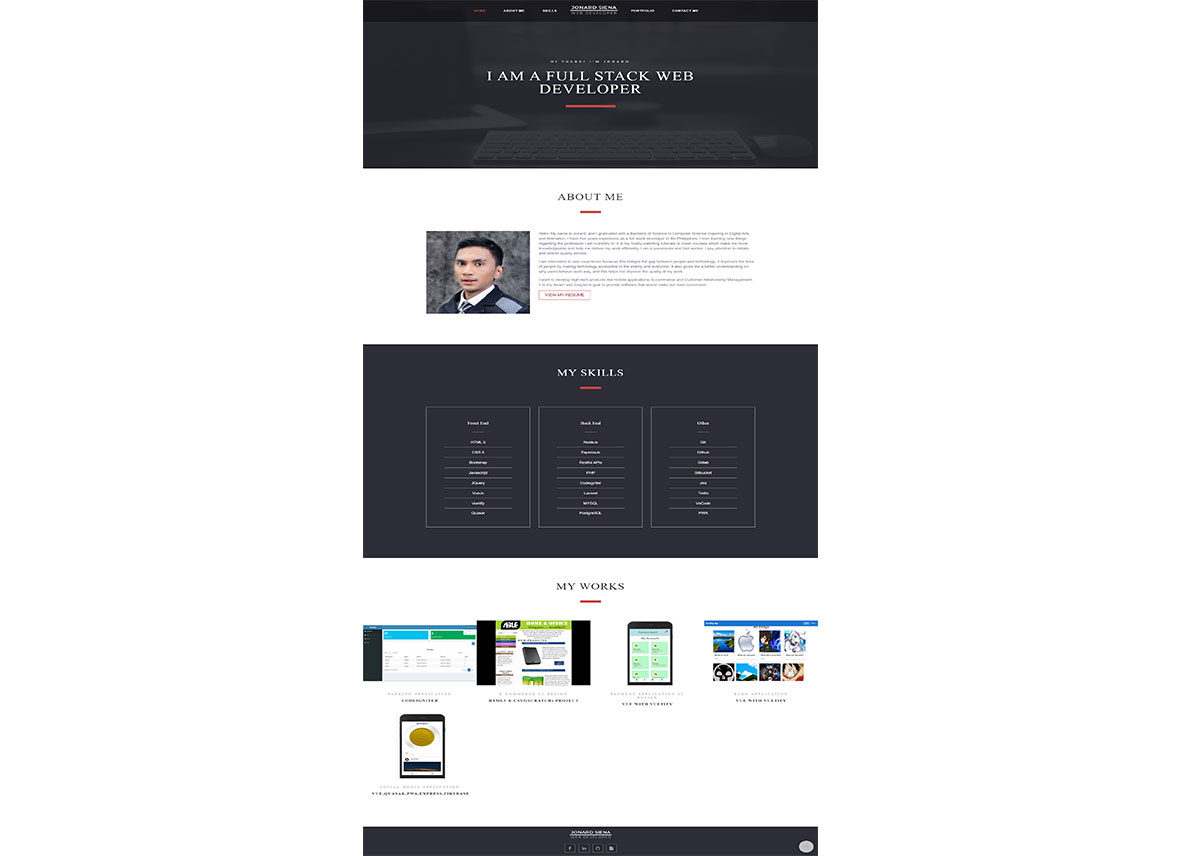
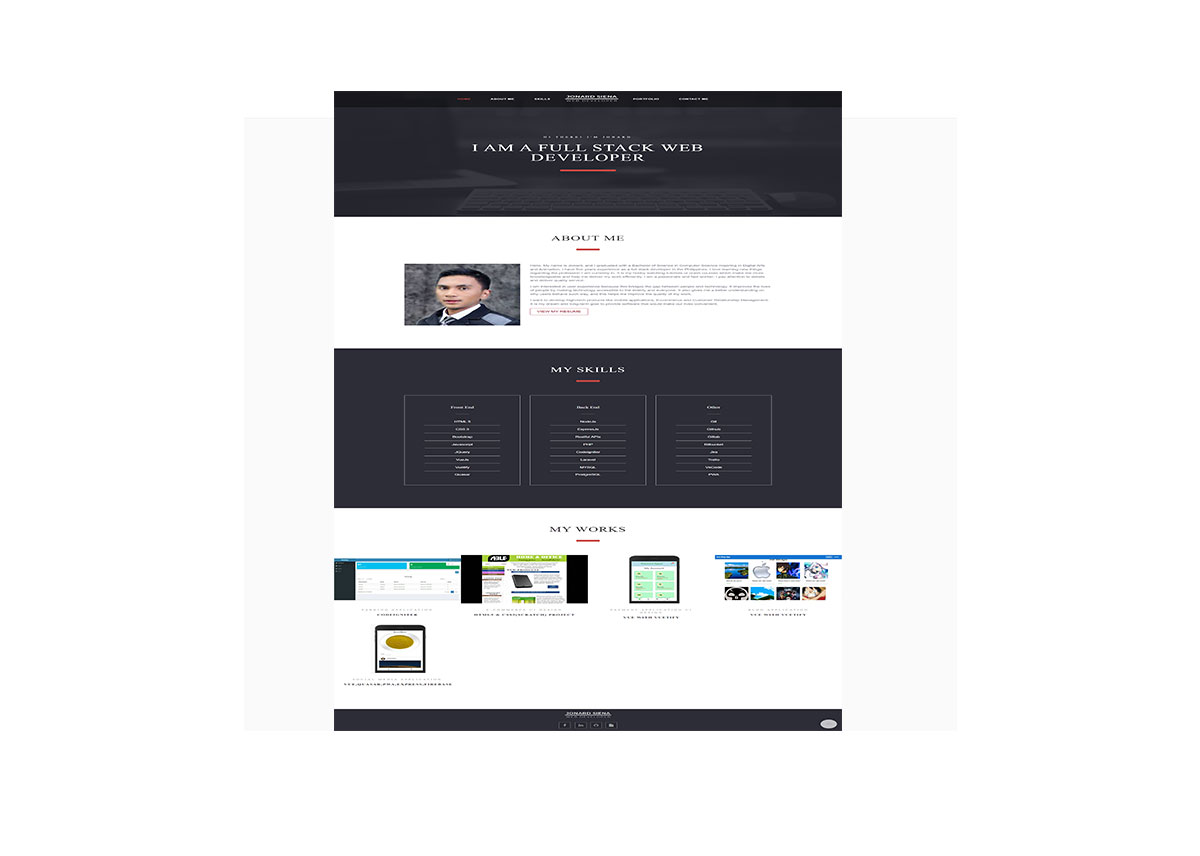
new update

Changed region(s): [[0.2775, 0.0, 0.7092, 1.0]]

diff --git a/index.html b/index.html
@@ -61,9 +61,6 @@
                   <li class="nav-item g-mx-30--lg g-mb-7 g-mb-0--lg">
                     <a href="#aboutMe" class="nav-link p-0">About Me</a>
                   </li>
-                  <li class="nav-item g-mx-30--lg g-mb-7 g-mb-0--lg">
-                    <a href="#skills" class="nav-link p-0">Skills</a>
-                  </li>
 
                   <!-- Logo -->
                   <li class="g-hidden-lg-down nav-logo-item g-mx-15--lg">
@@ -79,12 +76,11 @@
                     </a>
                   </li>
                   <!-- End Logo -->
-
                   <li class="nav-item g-mx-30--lg g-mb-7 g-mb-0--lg">
-                    <a href="#portfolio" class="nav-link p-0">Portfolio</a>
+                    <a href="#skills" class="nav-link p-0">Skills</a>
                   </li>
                   <li class="nav-item g-mx-30--lg g-mb-7 g-mb-0--lg">
-                    <a href="#contactMe" class="nav-link p-0">Contact Me</a>
+                    <a href="#portfolio" class="nav-link p-0">Portfolio</a>
                   </li>
                 </ul>
               </div>
@@ -261,7 +257,7 @@
               <div class="text-center text-uppercase g-pa-30">
                 <a href="https://drive.google.com/drive/folders/1MXoaRSU8y6FywPKJAtrcI92hBe-ILcvr">
                   <h4 class="g-letter-spacing-5 g-font-size-11 g-font-weight-400 g-color-gray-dark-v5 g-color-primary--parent-hover g-mb-10 g-transition-0_2 g-transition--ease-in">Parking Application</h4>
-                  <h3 class="h6 g-letter-spacing-2 g-font-weight-700 g-color-white--parent-hover mb-0 g-transition-0_2 g-transition--ease-in">Codeigniter</h3>
+                  <h3 class="h6 g-letter-spacing-2 g-font-weight-700 g-color-white--parent-hover mb-0 g-transition-0_2 g-transition--ease-in">Codeigniter 3 and Bootstrap</h3>
                 </a>
               </div>
             </div>
@@ -289,12 +285,12 @@
             </div>
 
             <div class="col-md-6 col-lg-4 g-parent g-theme-bg-blue-dark-v1--hover g-transition-0_2 g-transition--ease-in">
-              <img class="img-fluid w-100" src="assets/img/projects/payment.jpg" alt="Image Description">
+              <img class="img-fluid w-100" src="assets/img/projects/laravel_vue_template.jpg" alt="Image Description">
 
               <div class="text-center text-uppercase g-pa-30">
-                <a href="https://jonardpaymentmobileapp.netlify.app/#/">
-                  <h4 class="g-letter-spacing-5 g-font-size-11 g-font-weight-400 g-color-gray-dark-v5 g-color-primary--parent-hover g-mb-10 g-transition-0_2 g-transition--ease-in">Payment Application UI Design</h4>
-                  <h3 class="h6 g-letter-spacing-2 g-font-weight-700 g-color-white--parent-hover mb-0 g-transition-0_2 g-transition--ease-in">Vue with Vuetify</h3>
+                <a href="https://drive.google.com/drive/folders/1goENEc2PEwnzfMq2bze3YPn1aW_4Pk8V?usp=share_link">
+                  <h4 class="g-letter-spacing-5 g-font-size-11 g-font-weight-400 g-color-gray-dark-v5 g-color-primary--parent-hover g-mb-10 g-transition-0_2 g-transition--ease-in">Laravel Vue Template</h4>
+                  <h3 class="h6 g-letter-spacing-2 g-font-weight-700 g-color-white--parent-hover mb-0 g-transition-0_2 g-transition--ease-in">Laravel 8,Vue and Vuetify</h3>
                 </a>
               </div>
             </div>
@@ -327,7 +323,7 @@
 
       <!-- Footer -->
       <footer>
-        <div id="contactMe" class="g-theme-bg-blue-dark-v1 text-center g-py-15">
+        <div class="g-theme-bg-blue-dark-v1 text-center g-py-15">
           <a class="d-block g-width-140 mx-auto g-mb-20" href="#home">
             <img class="img-fluid" src="assets/img/js-logo.png" alt="Image description">
           </a>
